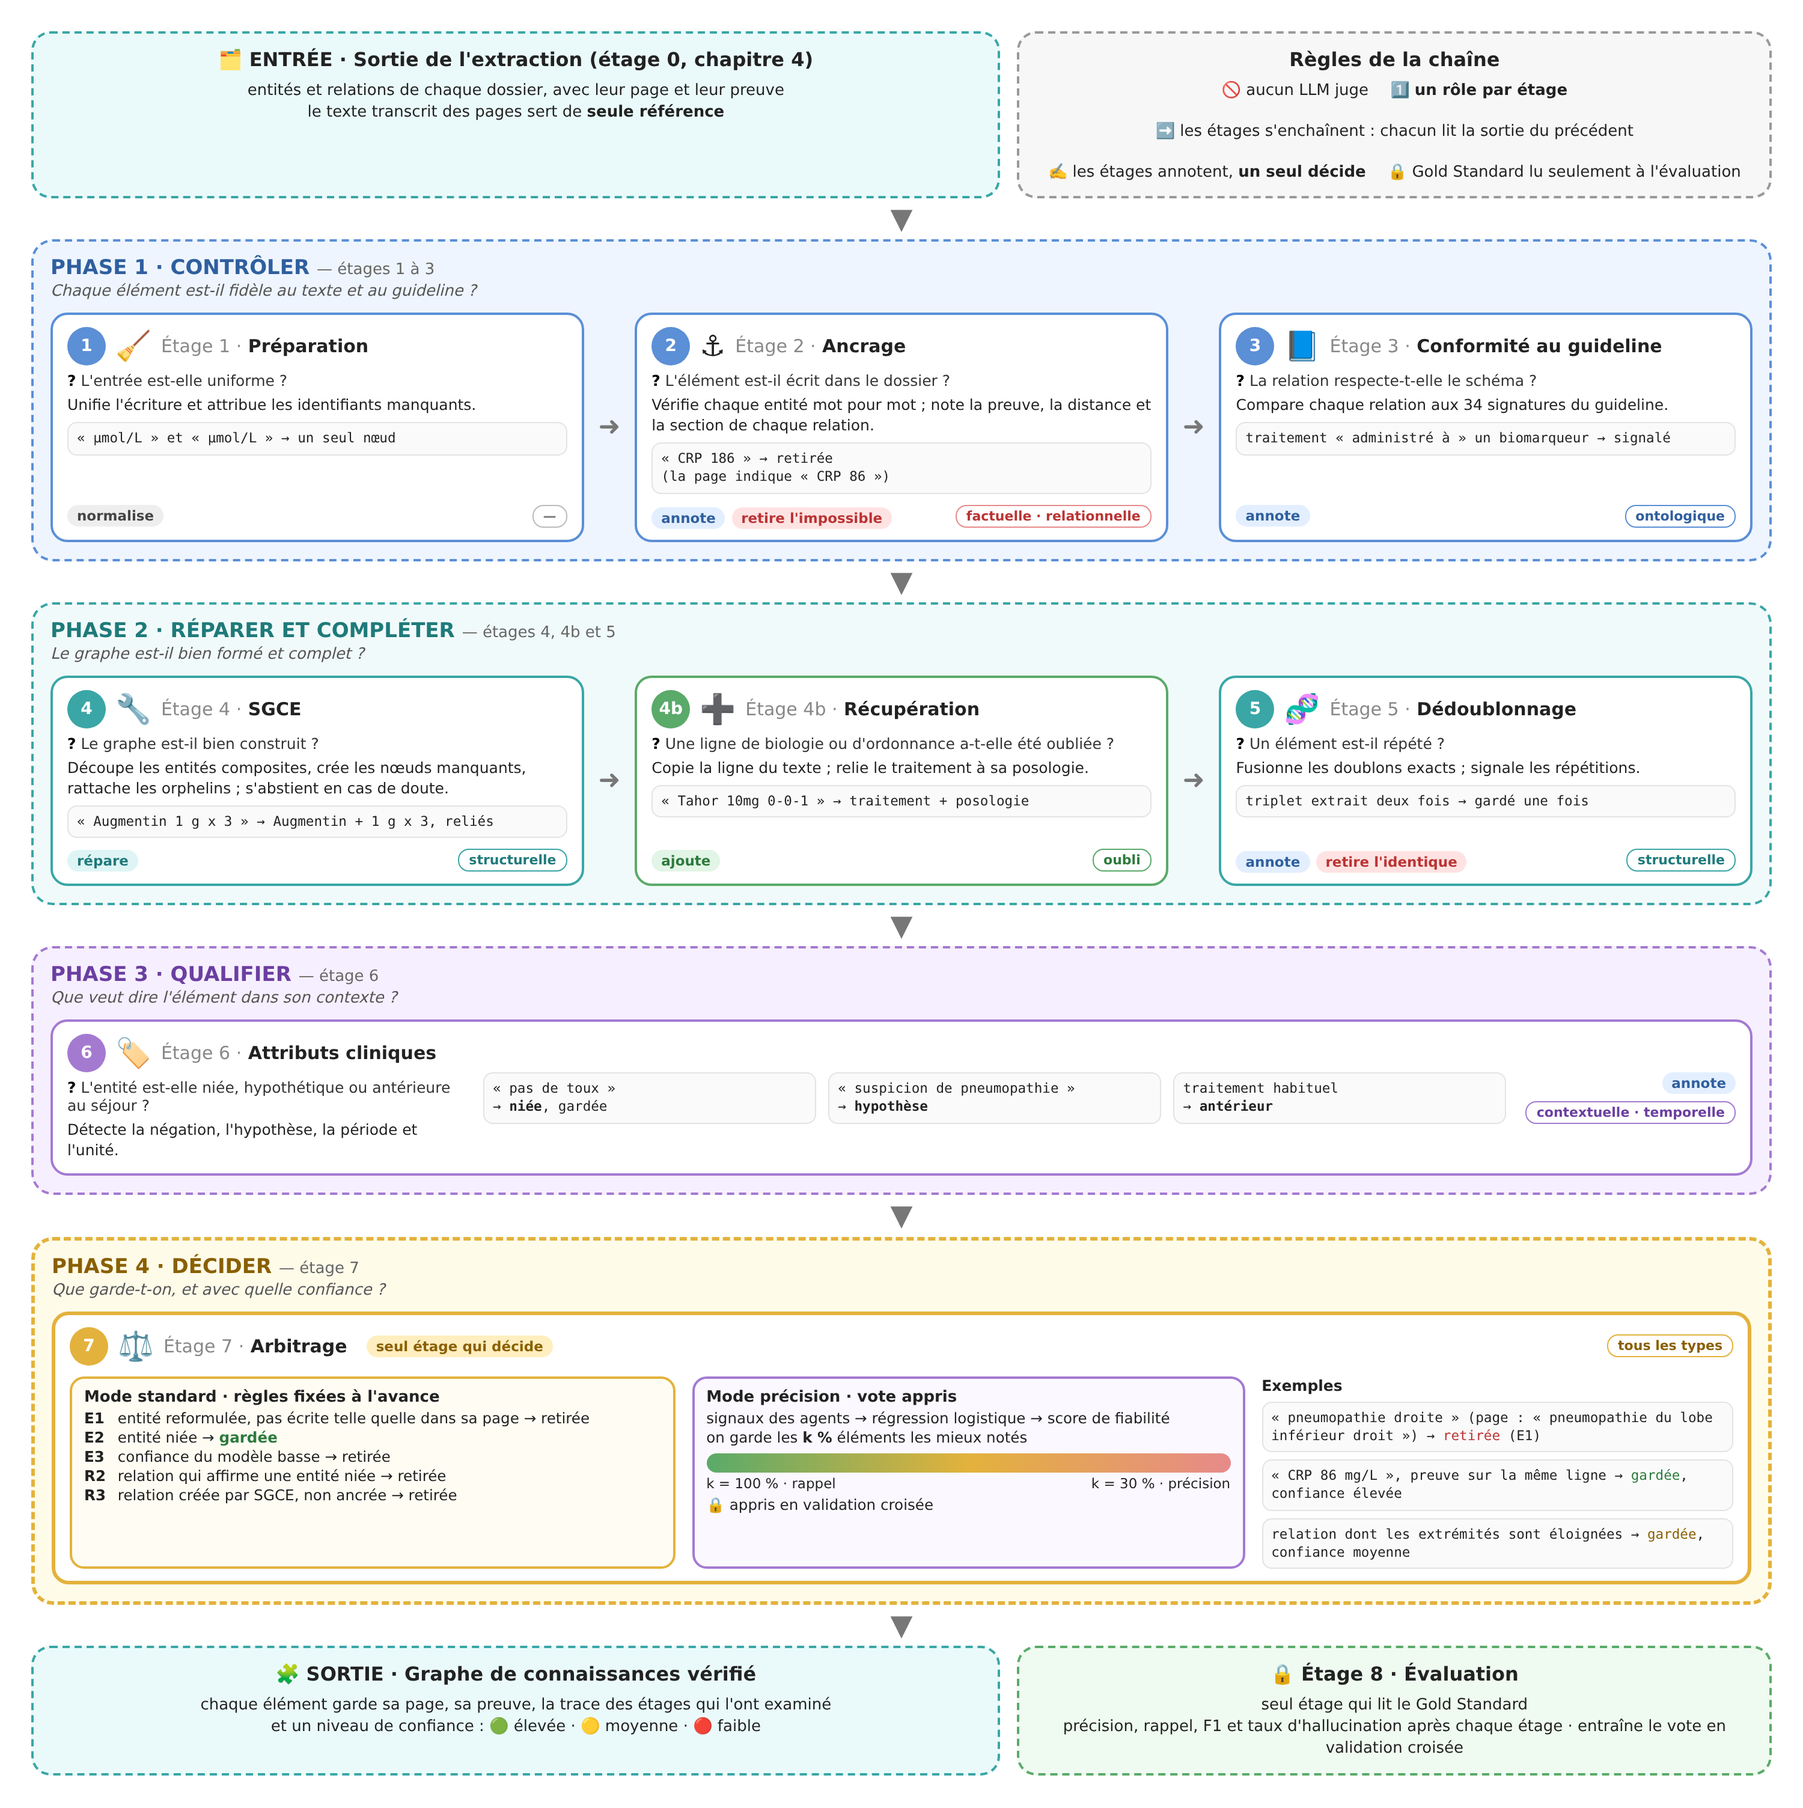
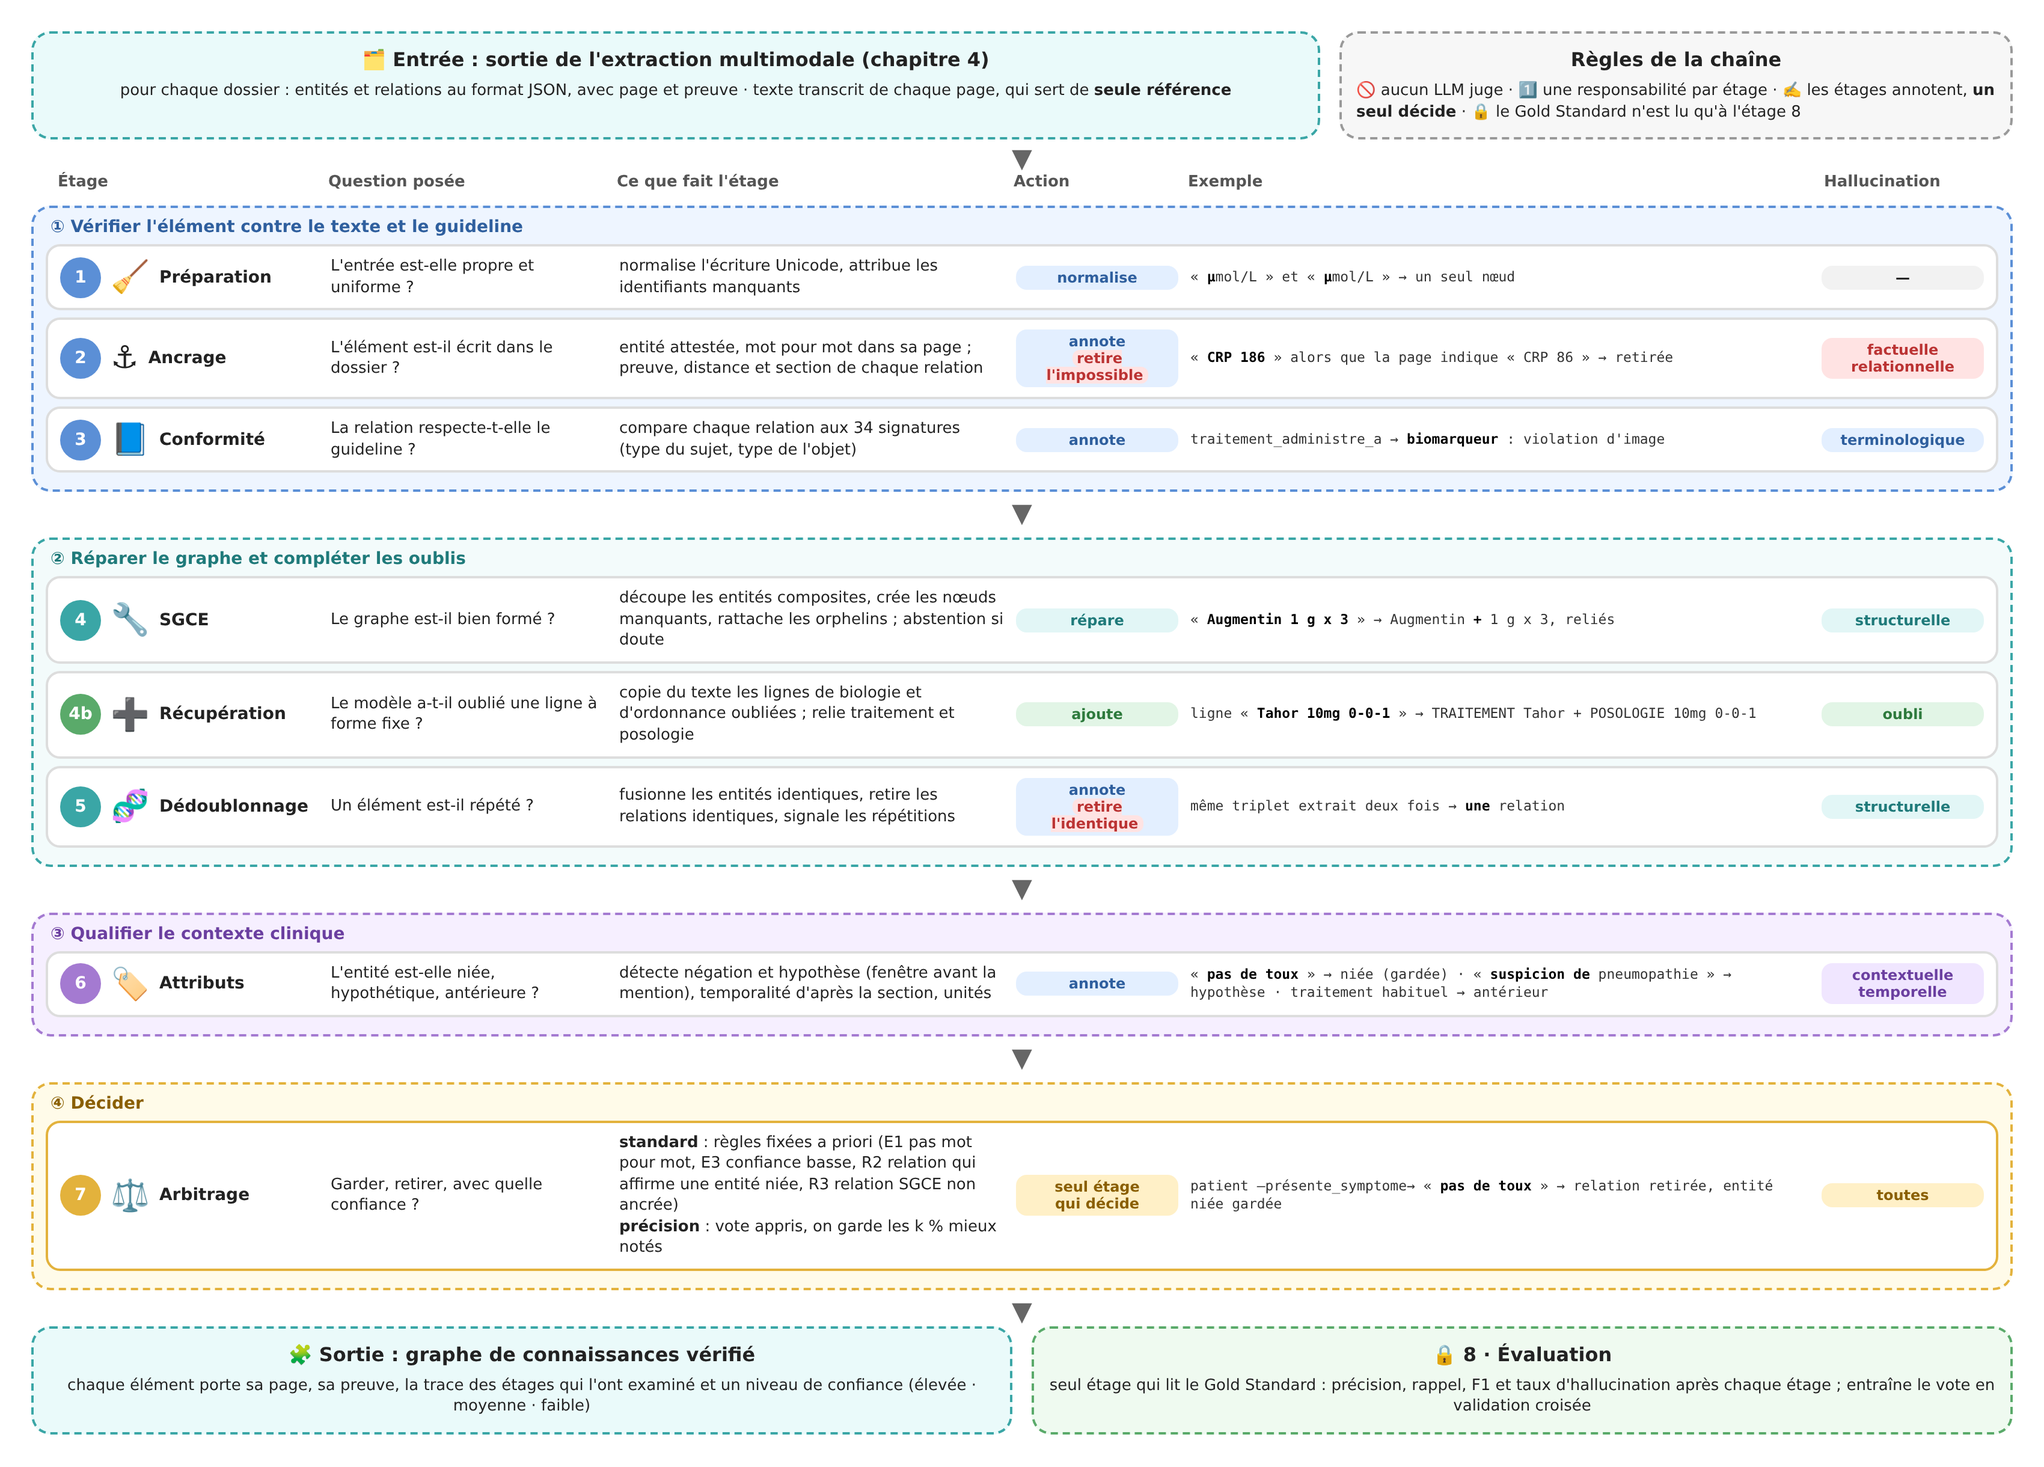
Taxonomie : « terminologique » au lieu de « ontologique » (texte et figures)
Claude-Session: https://claude.ai/code/session_01U1N2aa47apfcVip95LQDuG

Changed region(s): [[0.0, 0.0311, 0.992, 0.9967], [0.124, 0.0, 0.496, 0.0623], [0.527, 0.0311, 0.589, 0.0623]]

diff --git a/memoire/figures_sources/taxonomie.html b/memoire/figures_sources/taxonomie.html
@@ -14,7 +14,7 @@
  <div class="center"><div class="ic">🧭</div><div class="nm" style="font-size:18px">Hallucination</div><div class="df">élément du graphe que le dossier ne justifie pas</div></div>
  <div class="c pink"><div class="ic">❌</div><div class="nm">Factuelle</div><div class="df">entité, valeur ou preuve absente du document</div><div class="ex" style="border-color:#e78a8a">« CRP 186 » au lieu de « CRP 86 »</div><div class="st">étages 2 · 7</div></div>
  <div class="c orange"><div class="ic">🔗</div><div class="nm">Relationnelle</div><div class="df">lien que le texte n'énonce pas</div><div class="ex" style="border-color:#f0a35e">antibiotique relié à un germe d'une autre page</div><div class="st">étages 2 · 7</div></div>
- <div class="c blue"><div class="ic">📘</div><div class="nm">Ontologique</div><div class="df">type faux, signature du guideline non respectée</div><div class="ex" style="border-color:#5b8fd6">traitement administré à un biomarqueur</div><div class="st">étages 3 · 4 · 7</div></div>
+ <div class="c blue"><div class="ic">📘</div><div class="nm">Terminologique</div><div class="df">type faux, signature du guideline non respectée</div><div class="ex" style="border-color:#5b8fd6">traitement administré à un biomarqueur</div><div class="st">étages 3 · 4 · 7</div></div>
  <div class="c teal"><div class="ic">🧱</div><div class="nm">Structurelle</div><div class="df">entité composite, nœud manquant, orphelin, doublon</div><div class="ex" style="border-color:#3aa6a6">« Augmentin 1 g x 3 » en une seule entité</div><div class="st">étages 4 · 5</div></div>
  <div class="c purple"><div class="ic">🚫</div><div class="nm">Contextuelle</div><div class="df">négation ou hypothèse ignorée<br><span style="color:#2d7a3c">« pas de toux » est gardé comme entité <b>niée</b></span></div><div class="ex" style="border-color:#a47ad1">« toux » extrait sans « pas de », ou relié au patient comme présent</div><div class="st">étages 6 · 7</div></div>
  <div class="c yellow"><div class="ic">⏳</div><div class="nm">Temporelle</div><div class="df">fait d'une autre période pris pour le séjour</div><div class="ex" style="border-color:#e3b23c">traitement habituel compté comme administré</div><div class="st">étages 6 · 7</div></div>

diff --git a/memoire/figures_sources/trace_phases.html b/memoire/figures_sources/trace_phases.html
@@ -48,7 +48,7 @@
   <div class="card" style="border-color:#5b8fd6"><div class="hd"><div class="num" style="background:#5b8fd6">3</div><span class="ic">📘</span><span class="nm"><span style="color:#888;font-weight:normal">Étage 3 ·</span> Conformité au guideline</span></div>
    <div class="q"><b>?</b> La relation respecte-t-elle le schéma ?</div><div class="rl">Compare chaque relation aux 34 signatures du guideline.</div>
    <div class="ex">traitement « administré à » un biomarqueur → signalé</div>
-   <div class="foot"><span class="act ann">annote</span><span class="ty" style="border-color:#5b8fd6;color:#2f5f9e">ontologique</span></div></div>
+   <div class="foot"><span class="act ann">annote</span><span class="ty" style="border-color:#5b8fd6;color:#2f5f9e">terminologique</span></div></div>
  </div>
 </div>
 <div class="down">▼</div>

diff --git a/memoire/figures_sources/trace_architecture.html b/memoire/figures_sources/trace_architecture.html
@@ -27,7 +27,7 @@
   <div class="a">›</div>
   <div class="card" style="border-color:#5b8fd6"><div class="ic">⚓</div><div class="nm">2 · Ancrage</div><div class="ds">l'élément est-il dans le texte ?</div><span class="pill ann">factuelle</span></div>
   <div class="a">›</div>
-  <div class="card" style="border-color:#5b8fd6"><div class="ic">📘</div><div class="nm">3 · Conformité</div><div class="ds">34 signatures du guideline</div><span class="pill ann">ontologique</span></div>
+  <div class="card" style="border-color:#5b8fd6"><div class="ic">📘</div><div class="nm">3 · Conformité</div><div class="ds">34 signatures du guideline</div><span class="pill ann">terminologique</span></div>
  </div>
 </div>
 <div class="a">➜</div>

diff --git a/memoire/figures_sources/trace_pipeline.html b/memoire/figures_sources/trace_pipeline.html
@@ -48,7 +48,7 @@
   <div class="q">compare chaque relation aux 34 signatures (type du sujet, type de l'objet)</div>
   <div class="act ann">annote</div>
   <div class="ex">traitement_administre_a → <b>biomarqueur</b> : violation d'image</div>
-  <div class="ty" style="background:#e3efff;color:#2f5f9e">ontologique</div></div>
+  <div class="ty" style="background:#e3efff;color:#2f5f9e">terminologique</div></div>
 </div>
 <div class="down">▼</div>
 

diff --git a/memoire/chapitre_trace.tex b/memoire/chapitre_trace.tex
@@ -30,7 +30,7 @@ Nous distinguons sept types d'hallucinations (figure~\ref{fig:c5-taxonomie}).
 \begin{itemize}
   \item \textbf{Factuelle} : une entité, une valeur ou une preuve absente du document. C'est la forme la plus directe de l'hallucination, et la plus dangereuse en médecine lorsqu'elle porte sur un chiffre, comme une valeur biologique ou une posologie : \og CRP 186 mg/L \fg{} au lieu de \og CRP 86 mg/L \fg{} change l'interprétation clinique.
   \item \textbf{Relationnelle} : un lien entre deux entités bien présentes dans le dossier, mais que le texte n'énonce pas. Le modèle déduit la relation de la seule présence des deux entités, par exemple en reliant un antibiotique à un germe cité dans une autre partie du dossier.
-  \item \textbf{Ontologique} : une entité du mauvais type ou une relation qui ne respecte pas les signatures du guideline, par exemple une administration de traitement dirigée vers un biomarqueur plutôt que vers le patient.
+  \item \textbf{Terminologique} : une entité du mauvais type ou une relation qui ne respecte pas les signatures du guideline, par exemple une administration de traitement dirigée vers un biomarqueur plutôt que vers le patient.
   \item \textbf{Structurelle} : un graphe mal formé, avec des entités composites qui regroupent deux concepts (\og Augmentin 1 g x 3 \fg{} extrait comme un seul traitement), des nœuds manquants, des relations orphelines ou des doublons.
   \item \textbf{Contextuelle} : une mention bien écrite dans le texte, dont le contexte change le sens, comme une négation ou une hypothèse (\og suspicion de pneumopathie \fg{}). Une absence explicitement mentionnée, comme \og pas de toux \fg{}, n'est pas une hallucination : c'est une information clinique, extraite comme une entité niée, conformément au guideline. L'hallucination consiste à ignorer la négation, en extrayant \og toux \fg{} seul ou en reliant \og pas de toux \fg{} au patient comme un symptôme présent.
   \item \textbf{Temporelle} : un fait d'une autre période pris pour un fait du séjour, par exemple un traitement habituel compté comme administré en réanimation.
@@ -39,7 +39,7 @@ Nous distinguons sept types d'hallucinations (figure~\ref{fig:c5-taxonomie}).
 
 \subsection{Conséquence pour la conception de la chaîne}
 
-Ces types n'appellent pas les mêmes vérifications. Les hallucinations factuelles et relationnelles se détectent en comparant l'élément au texte. Les hallucinations ontologiques se détectent en le comparant au guideline, les hallucinations structurelles en examinant la forme du graphe. Les hallucinations contextuelles et temporelles échappent à ces contrôles, puisque le mot \og toux \fg{} est bien écrit dans la page : elles demandent une analyse du contexte de la mention. Les hallucinations visuelles, enfin, ne laissent aucune trace dans le texte transcrit, puisque c'est la transcription elle-même qui est fausse : elles ne sont traitées qu'indirectement, et constituent une limite de l'approche. Aucun contrôle unique ne peut couvrir ces sept situations. C'est cette diversité qui conduit à une chaîne d'étages spécialisés, chacun associé à un ou deux types d'hallucinations, plutôt qu'à un filtre unique.
+Ces types n'appellent pas les mêmes vérifications. Les hallucinations factuelles et relationnelles se détectent en comparant l'élément au texte. Les hallucinations terminologiques se détectent en le comparant au guideline, les hallucinations structurelles en examinant la forme du graphe. Les hallucinations contextuelles et temporelles échappent à ces contrôles, puisque le mot \og toux \fg{} est bien écrit dans la page : elles demandent une analyse du contexte de la mention. Les hallucinations visuelles, enfin, ne laissent aucune trace dans le texte transcrit, puisque c'est la transcription elle-même qui est fausse : elles ne sont traitées qu'indirectement, et constituent une limite de l'approche. Aucun contrôle unique ne peut couvrir ces sept situations. C'est cette diversité qui conduit à une chaîne d'étages spécialisés, chacun associé à un ou deux types d'hallucinations, plutôt qu'à un filtre unique.
 
 % ============================================================
 \section{Principes de l'architecture}\label{sec:c5-principes}
@@ -160,7 +160,7 @@ Exiger la présence de \emph{tous} les nombres, alors qu'une partie des mots peu
 % ============================================================
 \section{Étage 3 : conformité au guideline}\label{sec:c5-etage3}
 
-Le troisième étage traite les hallucinations ontologiques : une relation ne respecte pas le schéma du guideline. Il confronte chaque relation aux 34 signatures du TRACE-Sepsis Annotation Guideline (annexe~\ref{annexe:relations}) et pose trois questions : la relation fait-elle partie du schéma ? Le type de son sujet correspond-il au domaine attendu ? Le type de son objet correspond-il à l'image attendue ? Chaque relation reçoit le statut \emph{conforme}, \emph{violation de domaine} ou \emph{violation d'image}. Par exemple, la relation \emph{traitement\_administre\_a} attend un \entite{TRAITEMENT} comme sujet et une \entite{DONNEE\_PATIENT} comme objet ; dirigée vers \og lactates \fg{}, un \entite{BIOMARQUEUR}, elle reçoit le statut violation d'image.
+Le troisième étage traite les hallucinations terminologiques : une relation ne respecte pas le schéma du guideline. Il confronte chaque relation aux 34 signatures du TRACE-Sepsis Annotation Guideline (annexe~\ref{annexe:relations}) et pose trois questions : la relation fait-elle partie du schéma ? Le type de son sujet correspond-il au domaine attendu ? Le type de son objet correspond-il à l'image attendue ? Chaque relation reçoit le statut \emph{conforme}, \emph{violation de domaine} ou \emph{violation d'image}. Par exemple, la relation \emph{traitement\_administre\_a} attend un \entite{TRAITEMENT} comme sujet et une \entite{DONNEE\_PATIENT} comme objet ; dirigée vers \og lactates \fg{}, un \entite{BIOMARQUEUR}, elle reçoit le statut violation d'image.
 
 L'étage annote sans rien retirer, et ce choix est délibéré. Lors de la mise au point de la chaîne, l'examen des relations en violation a montré que la plupart étaient justes : c'est le type d'une de leurs entités qui était faux, non le lien lui-même. Un médicament typé par erreur comme biomarqueur, par exemple, produit une violation alors que le lien \og administré au patient \fg{} est exact. Retirer la relation ferait perdre une information correcte, alors que l'étage suivant peut corriger le type de l'entité. La violation devient donc un indice, utilisé par la réparation structurelle, puis par l'arbitrage, où elle abaisse le niveau de confiance.
 
@@ -254,7 +254,7 @@ Le recours multi-agent est un \emph{second recours} : il ne reçoit que les cas 
 \paragraph{L'arbitrage par consensus.} Chaque action proposée est ensuite soumise à trois votes indépendants :
 \begin{itemize}
   \item le vote de \textbf{preuve documentaire} : l'action est-elle explicitement soutenue par le texte source ?
-  \item le vote de \textbf{structure ontologique} : respecte-t-elle les signatures du schéma et l'état courant du graphe ?
+  \item le vote de \textbf{structure terminologique} : respecte-t-elle les signatures du schéma et l'état courant du graphe ?
   \item le vote de \textbf{cohérence clinique} : est-elle cohérente avec le contexte clinique local, sans contradiction évidente ?
 \end{itemize}
 Chaque vote peut soutenir l'action, rester neutre ou s'y opposer. L'action est appliquée si les trois votes la soutiennent, ou si deux la soutiennent sans opposition du troisième et avec une preuve documentaire explicite. Dans tous les autres cas, le cas reste non résolu et SGCE s'abstient, selon le principe de la décision sélective~\cite{geifman2017selective} : mieux vaut ne pas corriger que corriger faux, car une correction erronée serait une nouvelle hallucination, créée cette fois par la chaîne elle-même. Les actions retenues passent enfin par la même chaîne de garanties que les phases précédentes : correction provisoire sur une copie, validation de leur impact sur l'ensemble du document, correction définitive, puis post-validation.

diff --git a/memoire/chapitre_evaluation_extraction.tex b/memoire/chapitre_evaluation_extraction.tex
@@ -206,7 +206,7 @@ Sur l'exécution d'analyse, les 13\,876 entités extraites se répartissent en 8
 
 \paragraph{Les éléments en trop.} Ce sont les faux positifs, qui définissent le taux d'hallucination. Leur examen montre plusieurs situations : entités réellement inventées ou dont la valeur n'est pas écrite ; entités écrites mais mal délimitées au-delà de la tolérance de l'appariement ; entités de contexte que la référence n'annote pas, comme un symptôme cité dans les antécédents ou un traitement seulement envisagé ; et relations déduites de la seule présence de deux entités sur la même page. Toutes ne sont pas des inventions au sens strict, mais toutes produisent dans le graphe une connaissance que le dossier n'exprime pas sous cette forme : elles relèvent des hallucinations factuelles, relationnelles, contextuelles et temporelles de la taxonomie (section~\ref{sec:c5-taxonomie}).
 
-\paragraph{Les erreurs de type.} Une entité sur vingt est trouvée au bon endroit mais avec un mauvais type, le plus souvent entre catégories voisines : signe vital et symptôme, diagnostic et foyer, antécédent et défaillance. Ce sont des hallucinations ontologiques. Elles comptent doublement dans l'évaluation, comme un faux positif et un faux négatif.
+\paragraph{Les erreurs de type.} Une entité sur vingt est trouvée au bon endroit mais avec un mauvais type, le plus souvent entre catégories voisines : signe vital et symptôme, diagnostic et foyer, antécédent et défaillance. Ce sont des hallucinations terminologiques. Elles comptent doublement dans l'évaluation, comme un faux positif et un faux négatif.
 
 \paragraph{Les oublis.} Ce sont les faux négatifs. Ils se concentrent dans deux situations : les blocs à forme fixe, comme les tableaux de biologie et les listes d'ordonnance, où le modèle saute des lignes ; et les relations d'interprétation clinique, que les règles strictes ont interdites. Les oublis ne sont pas des hallucinations, mais ils limitent ce qu'un post-traitement peut améliorer.
 
